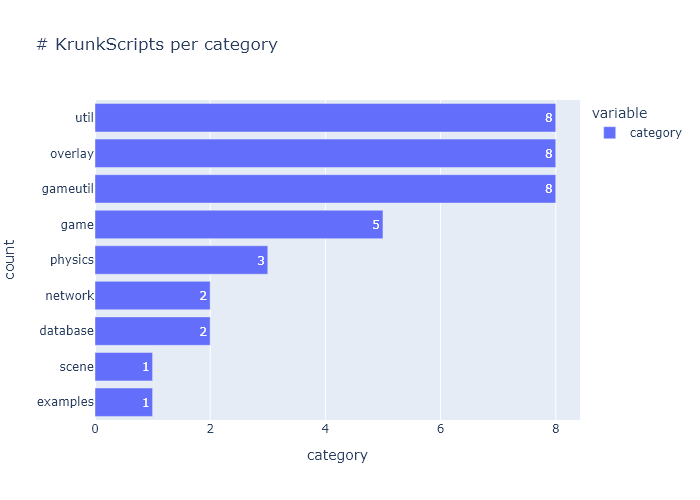
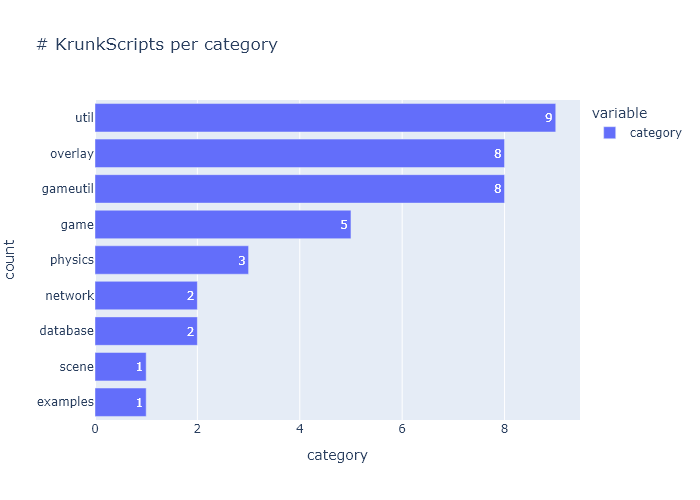
added vectors from ProfNoob

diff --git a/docs/KrunkScriptTable.md b/docs/KrunkScriptTable.md
@@ -37,5 +37,6 @@
 | 33 | strutils       | ProfNoob   |          |          | yes     | Additional String utilities                                                                                                                                                                                     | https://discord.com/channels/859947586005368862/862113777946984459/957710191590268929  | util       | https://github.com/blandrice/blandlibs/tree/master/libs/util/strutil                                        | ["'util'", " 'strutil'"]                                                    |
 | 34 | syncobjs       | blandrice  | yes      | yes      |         | Custom Server object syncing.                                                                                                                                                                                   |                                                                                        | network    | https://github.com/blandrice/blandlibs/tree/master/libs/network/syncobjs                                    | ["'network'", " 'syncobjs'"]                                                |
 | 35 | timer          | blandrice  | yes      | yes      |         | display a timer (total time given by server)                                                                                                                                                                    |                                                                                        | overlay    | https://github.com/blandrice/blandlibs/tree/master/libs/overlay/timer                                       | ["'overlay'", " 'timer'"]                                                   |
-| 36 | vec            | blandrice  |          |          | yes     | vector math                                                                                                                                                                                                     |                                                                                        | util       | https://github.com/blandrice/blandlibs/tree/master/libs/util/vectors                                        | ["'util'", " 'vectors'"]                                                    |
-| 37 | wpninfo        | blandrice  | yes      |          |         | adds additional CLASS's PRIMARY weapon info to player object.                                                                                                                                                   |                                                                                        | gameutil   | https://github.com/blandrice/blandlibs/tree/master/libs/gameutil/weaponinfo                                 | ["'gameutil'", " 'weaponinfo'"]                                             |
+| 36 | vec            | blandrice  |          |          | yes     | blandrice's object-based vector math                                                                                                                                                                            |                                                                                        | util       | https://github.com/blandrice/blandlibs/tree/master/libs/util/vectors                                        | ["'util'", " 'vectors'"]                                                    |
+| 37 | vec_prof       | ProfNoob   |          |          | yes     | Prof's array-based vector library                                                                                                                                                                               |                                                                                        | util       | https://github.com/blandrice/blandlibs/tree/master/libs/util/vectors                                        | ["'util'", " 'vectors'"]                                                    |
+| 38 | wpninfo        | blandrice  | yes      |          |         | adds additional CLASS's PRIMARY weapon info to player object.                                                                                                                                                   |                                                                                        | gameutil   | https://github.com/blandrice/blandlibs/tree/master/libs/gameutil/weaponinfo                                 | ["'gameutil'", " 'weaponinfo'"]                                             |
